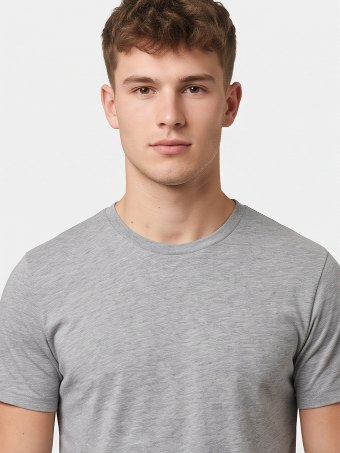
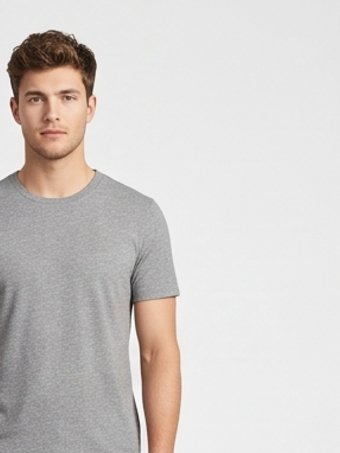
Mannequins diversifiés (8 profils) + étapes séparées mannequin/pose avec photos réelles

diff --git a/index.html b/index.html
@@ -5,7 +5,7 @@
 <meta name="viewport" content="width=device-width, initial-scale=1">
 <meta name="robots" content="noindex">
 <title>Studio 2.0 — Footkorner</title>
-<link rel="stylesheet" href="styles.css?v=2026081026">
+<link rel="stylesheet" href="styles.css?v=2026081027">
 <script type="importmap">{"imports":{"three":"./vendor/three.module.min.js"}}</script>
 </head>
 <body>
@@ -35,7 +35,7 @@
 <!-- ═══════════ Application ═══════════ -->
 <section id="screen-app" class="screen hidden">
   <header class="topbar">
-    <strong><span class="brand-dot"></span>Studio 2.0</strong> <span id="app-version" class="muted" style="font-size:0.72rem">v26</span>
+    <strong><span class="brand-dot"></span>Studio 2.0</strong> <span id="app-version" class="muted" style="font-size:0.72rem">v27</span>
     <nav id="stepper">
       <span class="step" data-step="1">1 · Photo &amp; mannequin</span>
       <span class="step" data-step="2">2 · Génération</span>
@@ -63,7 +63,7 @@
     <div class="qwrap">
 
       <div class="qstep" id="qs-1">
-        <p class="qcount">Question 1 sur 4</p>
+        <p class="qcount">Question 1 sur 5</p>
         <h2 class="qtitle">Quel type de <em>photo</em> as-tu&nbsp;?</h2>
         
         <div id="project-type" class="photo-cards">
@@ -86,7 +86,7 @@
       </div>
 
       <div class="qstep hidden" id="qs-2">
-        <p class="qcount">Question 2 sur 4</p>
+        <p class="qcount">Question 2 sur 5</p>
         <h2 class="qtitle">Quel <em>cadrage</em> pour la photo finale&nbsp;?</h2>
         
         <select id="project-framing" class="hidden" aria-hidden="true">
@@ -124,7 +124,7 @@
       </div>
 
       <div class="qstep hidden" id="qs-3">
-        <p class="qcount">Question 3 sur 4</p>
+        <p class="qcount">Question 3 sur 5</p>
         <h2 class="qtitle">Ajoute les <em>photos</em> du produit</h2>
         
         <div id="drop-source" class="dropzone">
@@ -141,36 +141,42 @@
       </div>
 
       <div class="qstep hidden" id="qs-4">
-        <p class="qcount">Question 4 sur 4</p>
-        <h2 class="qtitle">Décris ton <em>mannequin</em></h2>
-        
+        <p class="qcount">Question 4 sur 5</p>
+        <h2 class="qtitle">Choisis ton <em>mannequin</em></h2>
+        <select id="model-preset" class="hidden" aria-hidden="true">
+          <option value="">— Choisir un profil —</option>
+          <option value="h20">Homme ~20</option>
+          <option value="h30">Homme ~30</option>
+          <option value="f25">Femme ~25</option>
+          <option value="ado">Ado ~15</option>
+          <option value="hnoir">Homme ~25</option>
+          <option value="fnoire">Femme ~25</option>
+          <option value="hmag">Homme ~28</option>
+          <option value="fasie">Femme ~25</option>
+          <option value="perso">Personnalisé…</option>
+        </select>
+        <div id="profile-cards" class="pose-cards profiles-8">
+          <button type="button" class="pose-card photo" data-preset="h20"><img src="assets/profil-h20.jpg" alt="" loading="lazy"><span>Homme ~20</span></button>
+          <button type="button" class="pose-card photo" data-preset="h30"><img src="assets/profil-h30.jpg" alt="" loading="lazy"><span>Homme ~30</span></button>
+          <button type="button" class="pose-card photo" data-preset="hnoir"><img src="assets/profil-hnoir.jpg" alt="" loading="lazy"><span>Homme ~25</span></button>
+          <button type="button" class="pose-card photo" data-preset="hmag"><img src="assets/profil-hmag.jpg" alt="" loading="lazy"><span>Homme ~28</span></button>
+          <button type="button" class="pose-card photo" data-preset="f25"><img src="assets/profil-f25.jpg" alt="" loading="lazy"><span>Femme ~25</span></button>
+          <button type="button" class="pose-card photo" data-preset="fnoire"><img src="assets/profil-fnoire.jpg" alt="" loading="lazy"><span>Femme ~25</span></button>
+          <button type="button" class="pose-card photo" data-preset="fasie"><img src="assets/profil-fasie.jpg" alt="" loading="lazy"><span>Femme ~25</span></button>
+          <button type="button" class="pose-card photo" data-preset="ado"><img src="assets/profil-ado.jpg" alt="" loading="lazy"><span>Ado ~15</span></button>
+        </div>
+        <p class="hint" style="text-align:center">Un clic choisit le mannequin et affiche ses poses. Pour un profil sur mesure, ouvre « Détails » à l'étape suivante.</p>
+        <div class="qnav">
+          <button class="btn ghost" data-back="3">← Retour</button>
+          <span></span>
+        </div>
+      </div>
+
+      <div class="qstep hidden" id="qs-5">
+        <p class="qcount">Question 5 sur 5</p>
+        <h2 class="qtitle">Choisis sa <em>pose</em></h2>
+        <div id="pose-cards" class="pose-cards"></div>
         <form id="form-model">
-          <label class="pose-label">Pose du mannequin</label>
-          <div id="pose-cards" class="pose-cards">
-            <button type="button" class="pose-card photo active" data-pose="" title="Pose e-commerce naturelle, au choix de l'IA"><img src="assets/pose-auto.jpg" alt="" loading="lazy"><span>Auto</span></button>
-            <button type="button" class="pose-card photo" data-pose="Debout, naturelle, bras relâchés le long du corps"><img src="assets/pose-debout.jpg" alt="" loading="lazy"><span>Debout</span></button>
-            <button type="button" class="pose-card photo" data-pose="Debout en léger trois-quarts, épaules tournées, regard vers l'objectif"><img src="assets/pose-troisquarts.jpg" alt="" loading="lazy"><span>3/4</span></button>
-            <button type="button" class="pose-card photo" data-pose="Debout, une main dans la poche, attitude détendue"><img src="assets/pose-poche.jpg" alt="" loading="lazy"><span>Main poche</span></button>
-            <button type="button" class="pose-card photo" data-pose="Debout, bras croisés sur la poitrine, assuré"><img src="assets/pose-croises.jpg" alt="" loading="lazy"><span>Bras croisés</span></button>
-            <button type="button" class="pose-card photo" data-pose="En marche naturelle vers l'objectif"><img src="assets/pose-marche.jpg" alt="" loading="lazy"><span>En marche</span></button>
-            <button type="button" class="pose-card photo" data-pose="De dos, tête droite, épaules détendues"><img src="assets/pose-dos.jpg" alt="" loading="lazy"><span>De dos</span></button>
-            <button type="button" class="pose-card photo" data-pose="En train d'ajuster le col ou la manche du vêtement, geste naturel"><img src="assets/pose-ajuste.jpg" alt="" loading="lazy"><span>Ajuste</span></button>
-          </div>
-          <label class="pose-label">Profil du mannequin</label>
-          <select id="model-preset" class="hidden" aria-hidden="true">
-            <option value="">— Choisir un profil —</option>
-            <option value="h20">Homme sportif, ~20 ans</option>
-            <option value="h30">Homme athlétique, ~30 ans</option>
-            <option value="f25">Femme sportive, ~25 ans</option>
-            <option value="ado">Adolescent, ~15 ans</option>
-            <option value="perso">Personnalisé…</option>
-          </select>
-          <div id="profile-cards" class="pose-cards profiles">
-            <button type="button" class="pose-card photo" data-preset="h20"><img src="assets/profil-h20.jpg" alt="" loading="lazy"><span>Homme ~20</span></button>
-            <button type="button" class="pose-card photo" data-preset="h30"><img src="assets/profil-h30.jpg" alt="" loading="lazy"><span>Homme ~30</span></button>
-            <button type="button" class="pose-card photo" data-preset="f25"><img src="assets/profil-f25.jpg" alt="" loading="lazy"><span>Femme ~25</span></button>
-            <button type="button" class="pose-card photo" data-preset="ado"><img src="assets/profil-ado.jpg" alt="" loading="lazy"><span>Ado ~15</span></button>
-          </div>
           <details id="model-details">
             <summary>Détails du mannequin (ajuster si besoin)</summary>
           <div class="grid2">
@@ -192,9 +198,10 @@
         <p id="q-recap" class="hint"></p>
         <button id="btn-generate" class="btn primary big" disabled>Générer toutes les vues</button>
         <div class="qnav">
-          <button class="btn ghost" data-back="3">← Retour</button>
+          <button class="btn ghost" data-back="4">← Retour</button>
         </div>
       </div>
+    </div>
 
     </div>
   </div>
@@ -414,14 +421,14 @@
   <div id="busy" class="busy hidden"><div class="spinner"></div><p id="busy-msg">Génération en cours…</p></div>
 </section>
 
-<script src="vendor/supabase.min.js?v=2026081026"></script>
-<script src="vendor/libheif-bundle.js?v=2026081026"></script>
-<script src="js/config.js?v=2026081026"></script>
-<script src="js/masking.js?v=2026081026"></script>
-<script src="js/persist.js?v=2026081026"></script>
-<script src="js/admin.js?v=2026081026"></script>
-<script src="js/placement.js?v=2026081026"></script>
-<script src="js/colorfix.js?v=2026081026"></script>
-<script src="js/main.js?v=2026081026"></script>
+<script src="vendor/supabase.min.js?v=2026081027"></script>
+<script src="vendor/libheif-bundle.js?v=2026081027"></script>
+<script src="js/config.js?v=2026081027"></script>
+<script src="js/masking.js?v=2026081027"></script>
+<script src="js/persist.js?v=2026081027"></script>
+<script src="js/admin.js?v=2026081027"></script>
+<script src="js/placement.js?v=2026081027"></script>
+<script src="js/colorfix.js?v=2026081027"></script>
+<script src="js/main.js?v=2026081027"></script>
 </body>
 </html>

diff --git a/js/main.js b/js/main.js
@@ -342,11 +342,55 @@ const App = { state: {}, refreshLogoList: null };
   }
 
   const MODEL_PRESETS = {
-    h20: { genre: "Homme", origine: "", age: "Environ 20 ans", morpho: "Sportif", cheveux: "Bruns courts et texturés", barbe: "Sans barbe", expression: "Expression calme" },
-    h30: { genre: "Homme", origine: "", age: "Environ 30 ans", morpho: "Athlétique", cheveux: "Bruns courts", barbe: "Barbe courte soignée", expression: "Expression confiante" },
-    f25: { genre: "Femme", origine: "", age: "Environ 25 ans", morpho: "Sportive", cheveux: "Châtains attachés en queue de cheval", barbe: "", expression: "Expression naturelle" },
-    ado: { genre: "Garçon", origine: "", age: "Environ 15 ans", morpho: "Sportif", cheveux: "Bruns courts", barbe: "", expression: "Expression calme, pose catalogue naturelle" },
+    h20: { label: "Homme ~20", genre: "Homme", origine: "", age: "Environ 20 ans", morpho: "Sportif", cheveux: "Bruns courts et texturés", barbe: "Sans barbe", expression: "Expression calme" },
+    h30: { label: "Homme ~30", genre: "Homme", origine: "", age: "Environ 30 ans", morpho: "Athlétique", cheveux: "Bruns courts", barbe: "Barbe courte soignée", expression: "Expression confiante" },
+    hnoir: { label: "Homme ~25", genre: "Homme", origine: "Noir", age: "Environ 25 ans", morpho: "Athlétique", cheveux: "Très courts", barbe: "Barbe légère bien taillée", expression: "Expression confiante" },
+    hmag: { label: "Homme ~28", genre: "Homme", origine: "Nord-africain", age: "Environ 28 ans", morpho: "Sportif", cheveux: "Noirs courts", barbe: "Barbe courte", expression: "Expression assurée" },
+    f25: { label: "Femme ~25", genre: "Femme", origine: "", age: "Environ 25 ans", morpho: "Sportive", cheveux: "Châtains attachés en queue de cheval", barbe: "", expression: "Expression naturelle" },
+    fnoire: { label: "Femme ~25", genre: "Femme", origine: "Noire", age: "Environ 25 ans", morpho: "Sportive", cheveux: "Bouclés attachés", barbe: "", expression: "Expression naturelle et souriante" },
+    fasie: { label: "Femme ~25", genre: "Femme", origine: "Asiatique", age: "Environ 25 ans", morpho: "Sportive", cheveux: "Noirs mi-longs attachés", barbe: "", expression: "Expression douce" },
+    ado: { label: "Ado ~15", genre: "Garçon", origine: "", age: "Environ 15 ans", morpho: "Sportif", cheveux: "Bruns courts", barbe: "", expression: "Expression calme, pose catalogue naturelle" },
   };
+
+  const POSE_DEFS = [
+    { key: "auto", label: "Auto", pose: "" },
+    { key: "debout", label: "Debout", pose: "Debout, naturelle, bras relâchés le long du corps" },
+    { key: "troisquarts", label: "3/4", pose: "Debout en léger trois-quarts, épaules tournées, regard vers l'objectif" },
+    { key: "poche", label: "Main poche", pose: "Debout, une main dans la poche, attitude détendue" },
+    { key: "croises", label: "Bras croisés", pose: "Debout, bras croisés sur la poitrine, assuré" },
+    { key: "marche", label: "En marche", pose: "En marche naturelle vers l'objectif" },
+    { key: "dos", label: "De dos", pose: "De dos, tête droite, épaules détendues" },
+    { key: "ajuste", label: "Ajuste", pose: "En train d'ajuster le col ou la manche du vêtement, geste naturel" },
+  ];
+
+  // Construit la grille des poses AVEC les photos du mannequin choisi
+  function buildPoseGrid(presetKey) {
+    const grid = el("pose-cards");
+    grid.innerHTML = "";
+    App.state.presetKey = presetKey;
+    App.state.poseLabel = "Auto";
+    el("m-pose").value = "";
+    for (const p of POSE_DEFS) {
+      const b = document.createElement("button");
+      b.type = "button";
+      b.className = "pose-card photo" + (p.key === "auto" ? " active" : "");
+      b.dataset.pose = p.pose;
+      const img = document.createElement("img");
+      img.src = `assets/pose-${presetKey}-${p.key}.jpg`;
+      img.loading = "lazy";
+      const span = document.createElement("span");
+      span.textContent = p.label;
+      b.append(img, span);
+      b.addEventListener("click", () => {
+        grid.querySelectorAll(".pose-card").forEach(x => x.classList.toggle("active", x === b));
+        el("m-pose").value = p.pose;
+        App.state.poseLabel = p.label;
+        renderRecap();
+        Persist.saveSoon();
+      });
+      grid.appendChild(b);
+    }
+  }
 
   // ══════════ Questionnaire de l'étape 1 ══════════
 
@@ -354,9 +398,12 @@ const App = { state: {}, refreshLogoList: null };
 
   function goQ(n) {
     curQ = n;
-    for (let i = 1; i <= 4; i++) el("qs-" + i).classList.toggle("hidden", i !== n);
+    for (let i = 1; i <= 5; i++) el("qs-" + i).classList.toggle("hidden", i !== n);
     if (n === 2) syncFramingCards();
-    if (n === 4) renderRecap();
+    if (n === 5) {
+      if (!el("pose-cards").children.length) buildPoseGrid(App.state.presetKey || "h20");
+      renderRecap();
+    }
     updateQNav();
   }
 
@@ -377,11 +424,14 @@ const App = { state: {}, refreshLogoList: null };
     const refs = views.filter(v => v.role === "ref").length;
     const pants = views.filter(v => v.role === "pant").length;
     const libs = (App.state.logoLibrary || []).length;
+    const preset = MODEL_PRESETS[App.state.presetKey];
     const parts = [
       "Type : " + (TYPE_LABELS[type] || "non choisi"),
       "Cadrage : " + (FRAMING_LABELS[el("project-framing").value] || "?"),
       `${vues} vue${vues > 1 ? "s" : ""} à générer`,
     ];
+    if (preset) parts.push("Mannequin : " + preset.label + (preset.origine ? " (" + preset.origine.toLowerCase() + ")" : ""));
+    if (App.state.poseLabel) parts.push("Pose : " + App.state.poseLabel);
     if (refs) parts.push(`${refs} référence${refs > 1 ? "s" : ""}`);
     if (pants) parts.push(`${pants} pantalon${pants > 1 ? "s" : ""}`);
     if (libs) parts.push(`${libs} logo${libs > 1 ? "s" : ""} en bibliothèque`);
@@ -392,7 +442,7 @@ const App = { state: {}, refreshLogoList: null };
   function syncQuestionnaire() {
     const typeOk = !!document.querySelector("#project-type .type-card.active");
     const hasVues = (App.state.views || []).filter(isVue).length > 0;
-    goQ(!typeOk ? 1 : hasVues ? 4 : 3);
+    goQ(!typeOk ? 1 : !hasVues ? 3 : App.state.presetKey ? 5 : 4);
   }
 
   function syncFramingCards() {
@@ -419,19 +469,13 @@ const App = { state: {}, refreshLogoList: null };
     el("qs3-next").addEventListener("click", () => goQ(4));
   }
 
-  function wirePoseCards() {
-    $$("#pose-cards .pose-card").forEach(b => b.addEventListener("click", () => {
-      $$("#pose-cards .pose-card").forEach(x => x.classList.toggle("active", x === b));
-      el("m-pose").value = b.dataset.pose;
-      Persist.saveSoon();
-    }));
-  }
-
   function wireProfileCards() {
     $$("#profile-cards .pose-card").forEach(b => b.addEventListener("click", () => {
       $$("#profile-cards .pose-card").forEach(x => x.classList.toggle("active", x === b));
       el("model-preset").value = b.dataset.preset;
       el("model-preset").dispatchEvent(new Event("change"));
+      buildPoseGrid(b.dataset.preset);
+      if (curQ === 4) setTimeout(() => goQ(5), 220);
     }));
   }
 
@@ -1401,7 +1445,6 @@ const App = { state: {}, refreshLogoList: null };
     wireProject();
     wirePresets();
     wireProfileCards();
-    wirePoseCards();
     wireQuestionnaire();
     wireSource();
     wireInventory();

diff --git a/styles.css b/styles.css
@@ -1047,3 +1047,7 @@ h1, h2 { letter-spacing: -0.03em; font-weight: 650; }
   display: block;
 }
 .pose-cards.profiles { grid-template-columns: repeat(4, 1fr); max-width: 560px; margin-left: auto; margin-right: auto; }
+
+
+/* 8 profils en 2 rangées de 4 */
+.pose-cards.profiles-8 { grid-template-columns: repeat(4, 1fr); max-width: 640px; margin-left: auto; margin-right: auto; }
